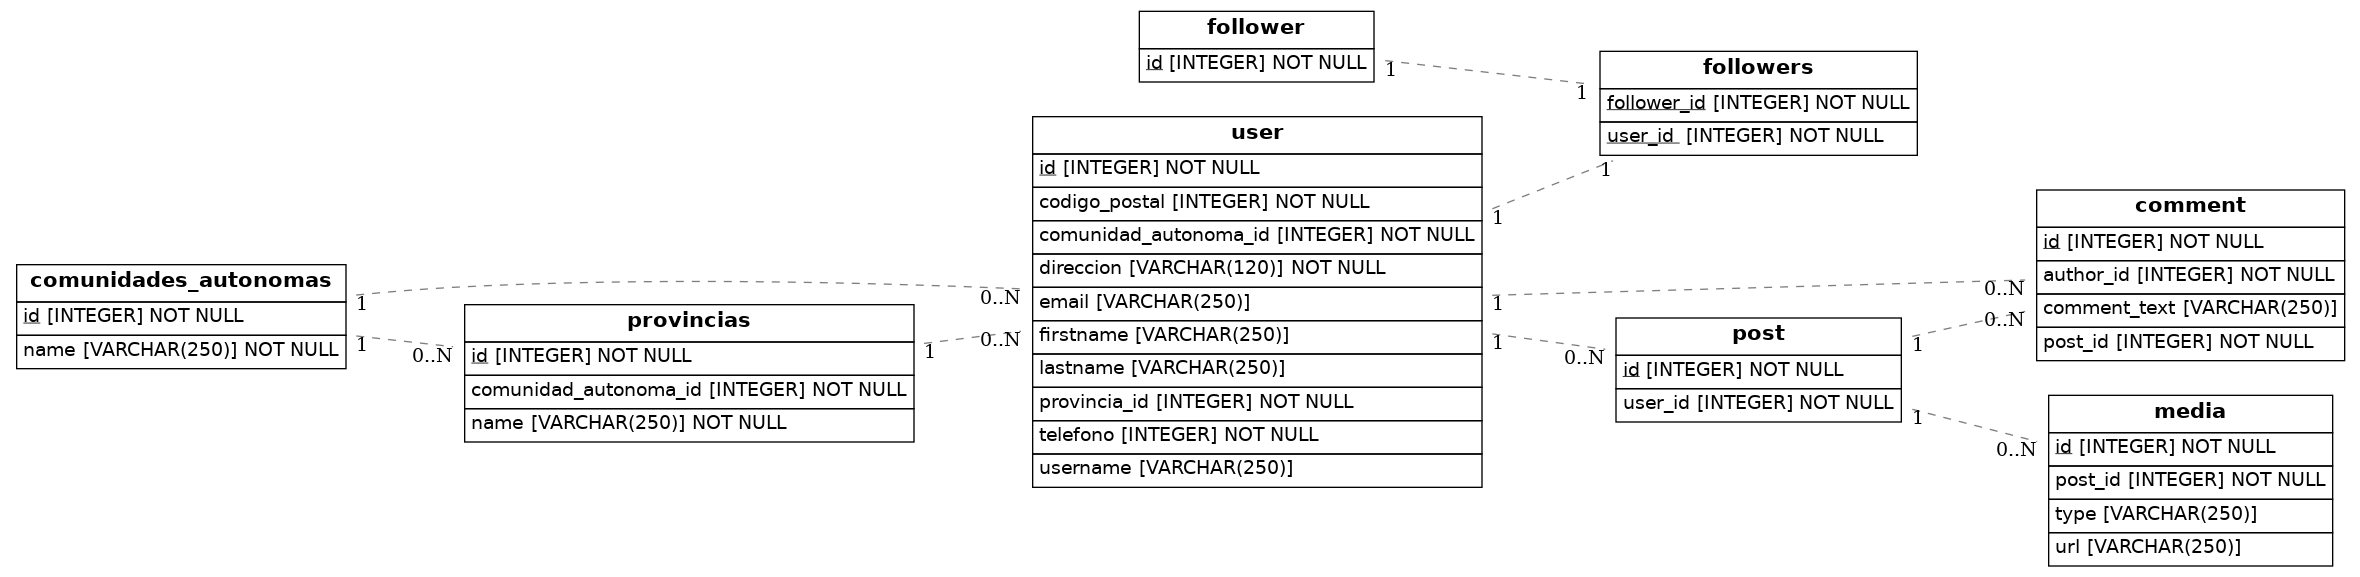
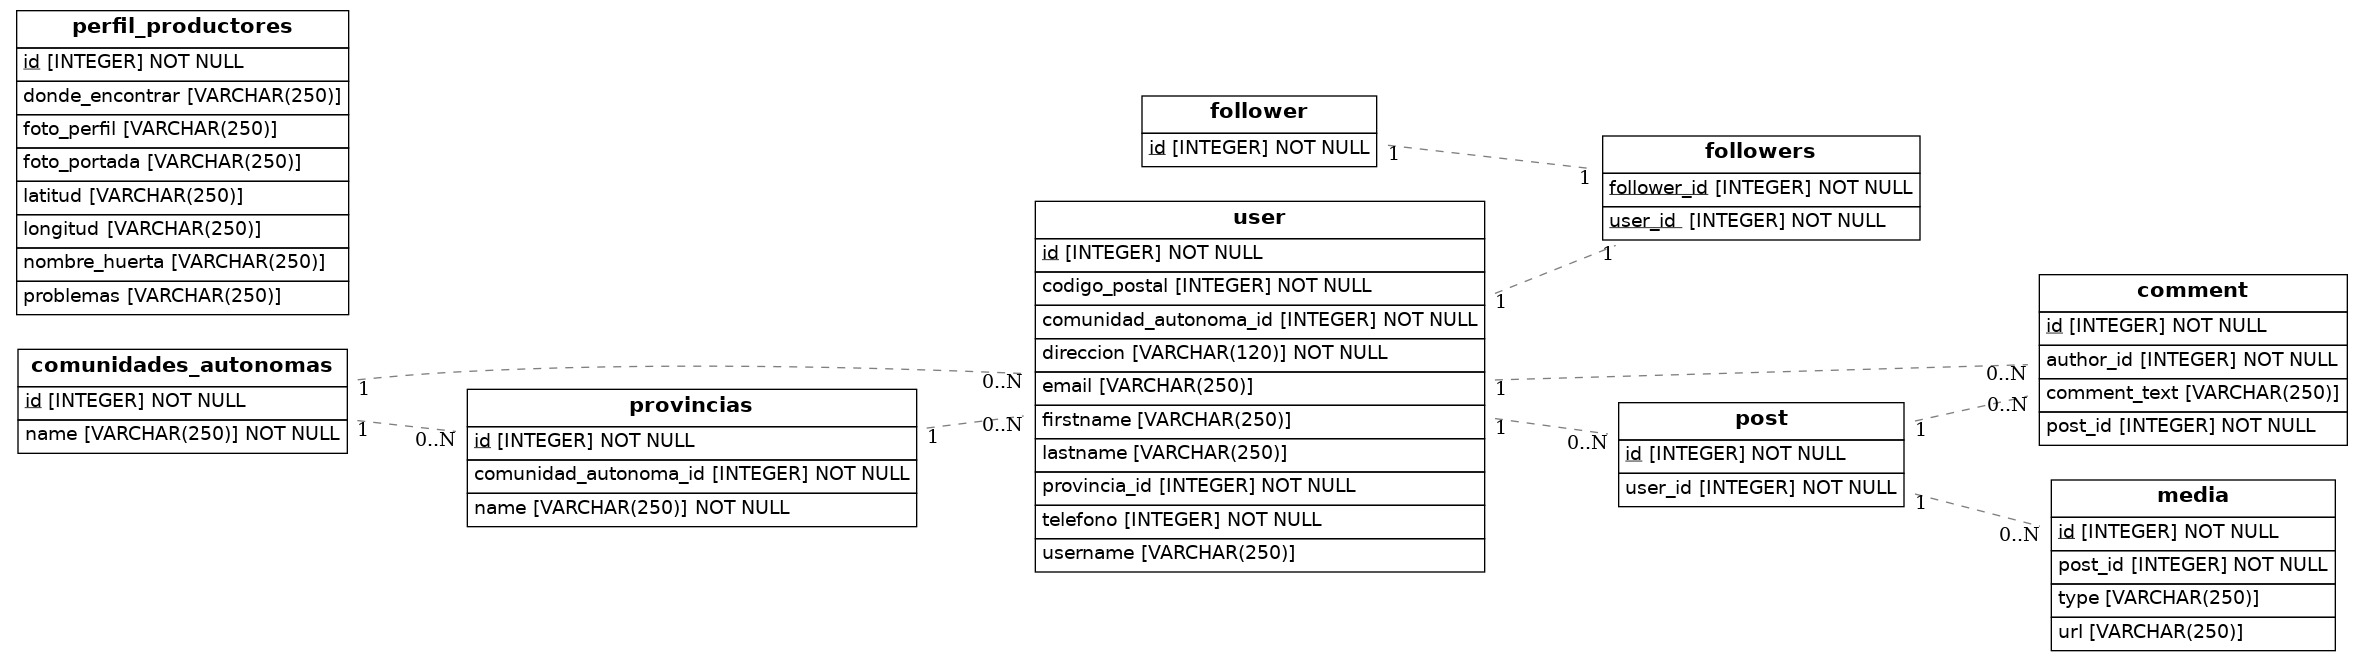
add tabla perfil_productor

Changed region(s): [[0.1856, 0.0, 1.0, 0.9983], [0.0, 0.0, 0.1547, 0.6863], [0.6496, 0.0624, 0.8352, 0.3744]]

diff --git a/src/models.py b/src/models.py
@@ -84,16 +84,7 @@ class PerfilProductor(Base):
     donde_encontrar = Column(String(250), nullable=True)
     latitud = Column(String(250), nullable=True)
     longitud = Column(String(250), nullable=True)
-
-
-    # comunidad_autonoma_id = Column(Integer, ForeignKey('comunidades_autonomas.id'),nullable=False)
-    # provincia_id = Column(Integer, ForeignKey('provincias.id'),nullable=False)
-
-    # posts = relationship('Post', backref='user', lazy=True)
-    # comments = relationship('Comment', backref='user', lazy=True)
-    # followers = relationship('Follower', secondary= followers, lazy='subquery',
-    #     backref= backref('users', lazy=True))
-   
+ 
 
     def to_dict(self):
         return {}
